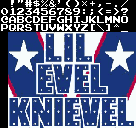
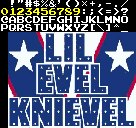
no message

Changed region(s): [[0.0, 0.0625, 0.5882, 0.125]]

diff --git a/TurtleBridge/tilesNew/20-NewGraphicsTesting/ScreenShotTest/Manager/AssetManager.cs b/TurtleBridge/tilesNew/20-NewGraphicsTesting/ScreenShotTest/Manager/AssetManager.cs
@@ -6,7 +6,7 @@ namespace ScreenShotTest
 {
 	public class AssetManager
 	{
-		private string[] names = { "font_tiles", "block", "titlescreen" };
+		private string[] names = { "font_tiles_yellow", "font_tiles", "block", "titlescreen" };
 
 		public void LoadContent(ContentManager content)
 		{

diff --git a/TurtleBridge/tilesNew/20-NewGraphicsTesting/ScreenShotTest/Manager/EnumManager.cs b/TurtleBridge/tilesNew/20-NewGraphicsTesting/ScreenShotTest/Manager/EnumManager.cs
@@ -3,8 +3,9 @@
 	public enum AssetType
 	{
 		font = 0,
-		block = 1,
-		title = 2,
+		font_old = 1,
+		block = 2,
+		title = 3,
 	}
 
 	public enum AssetType2
